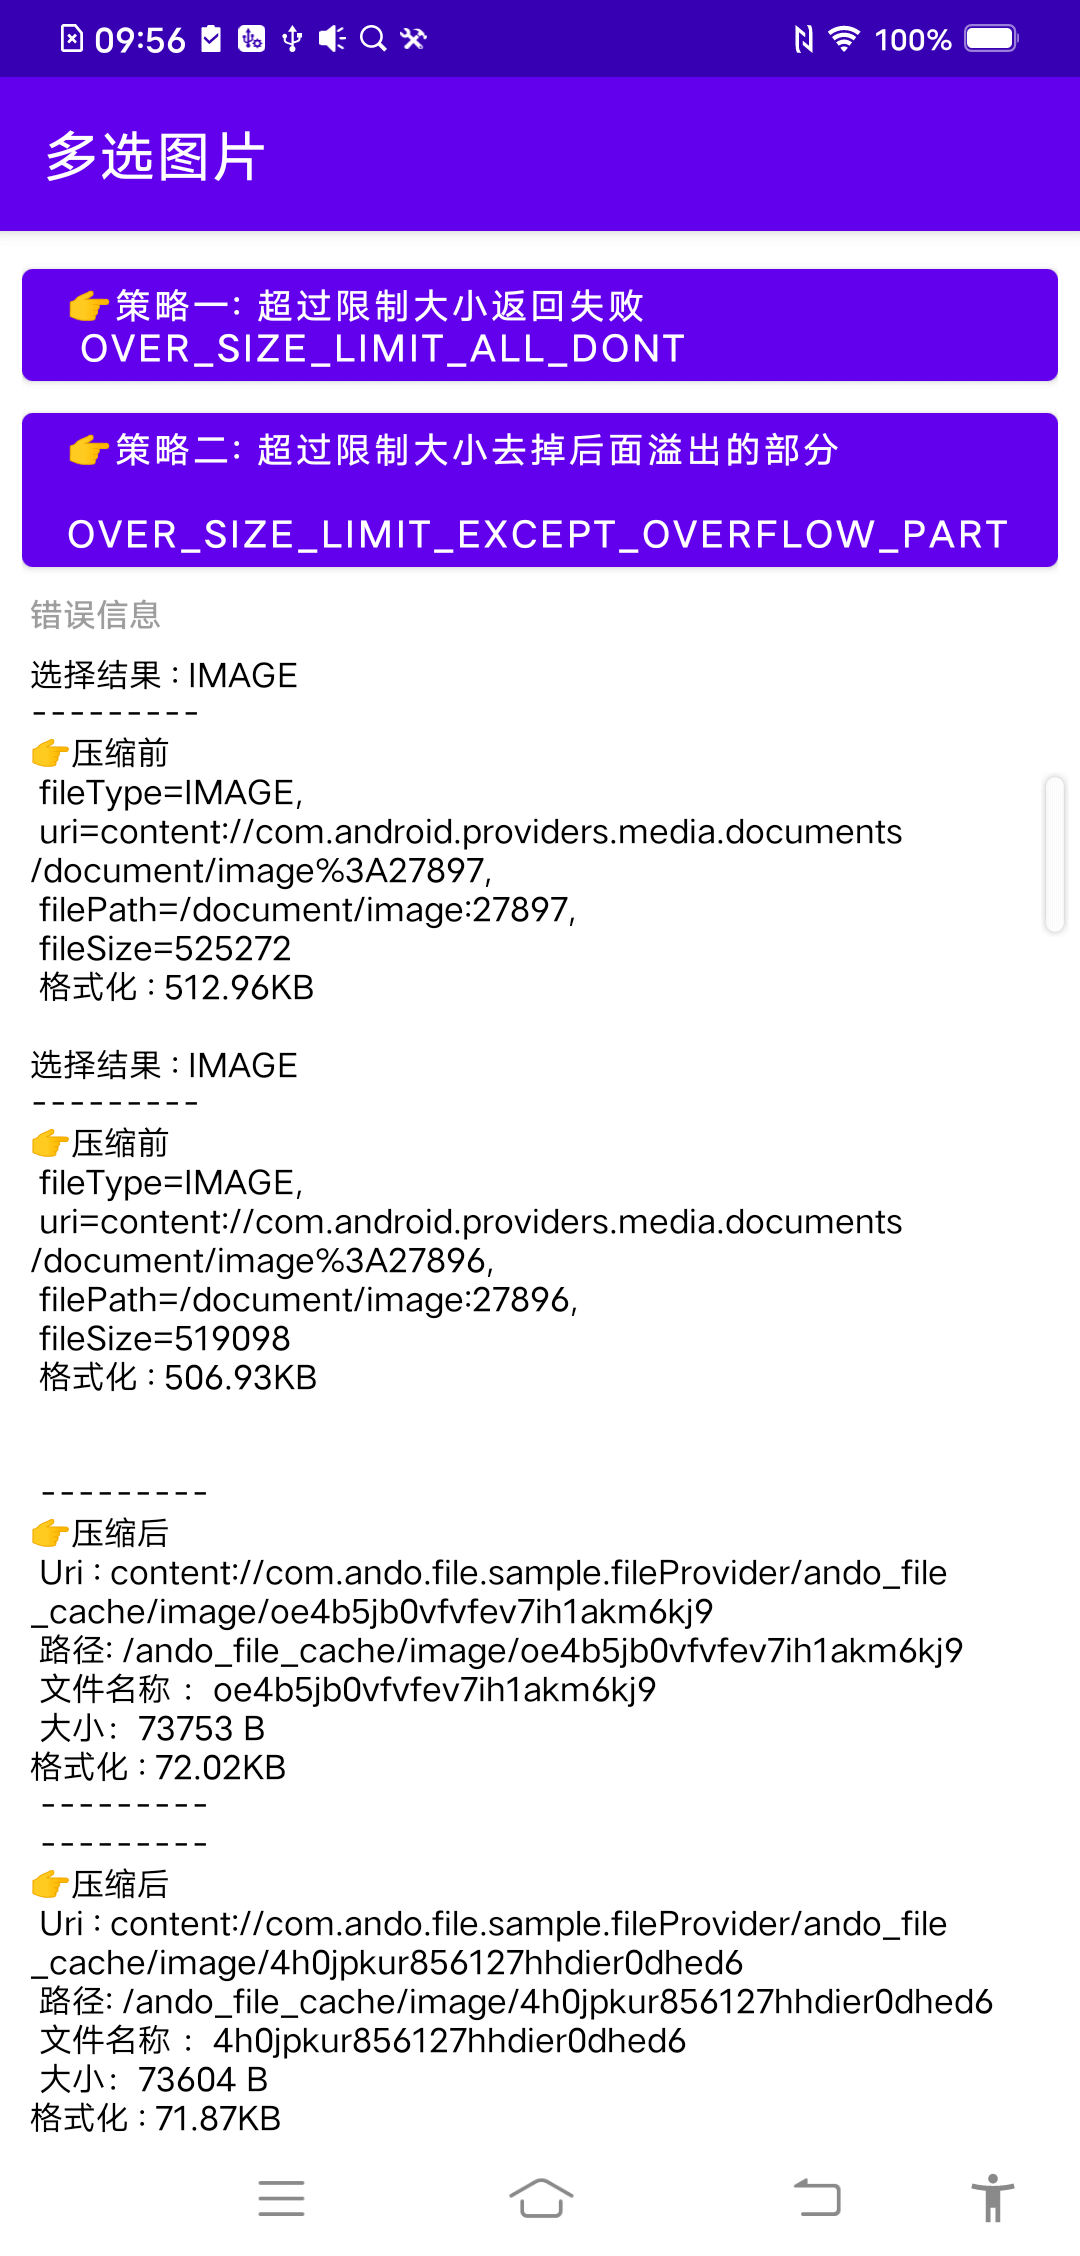
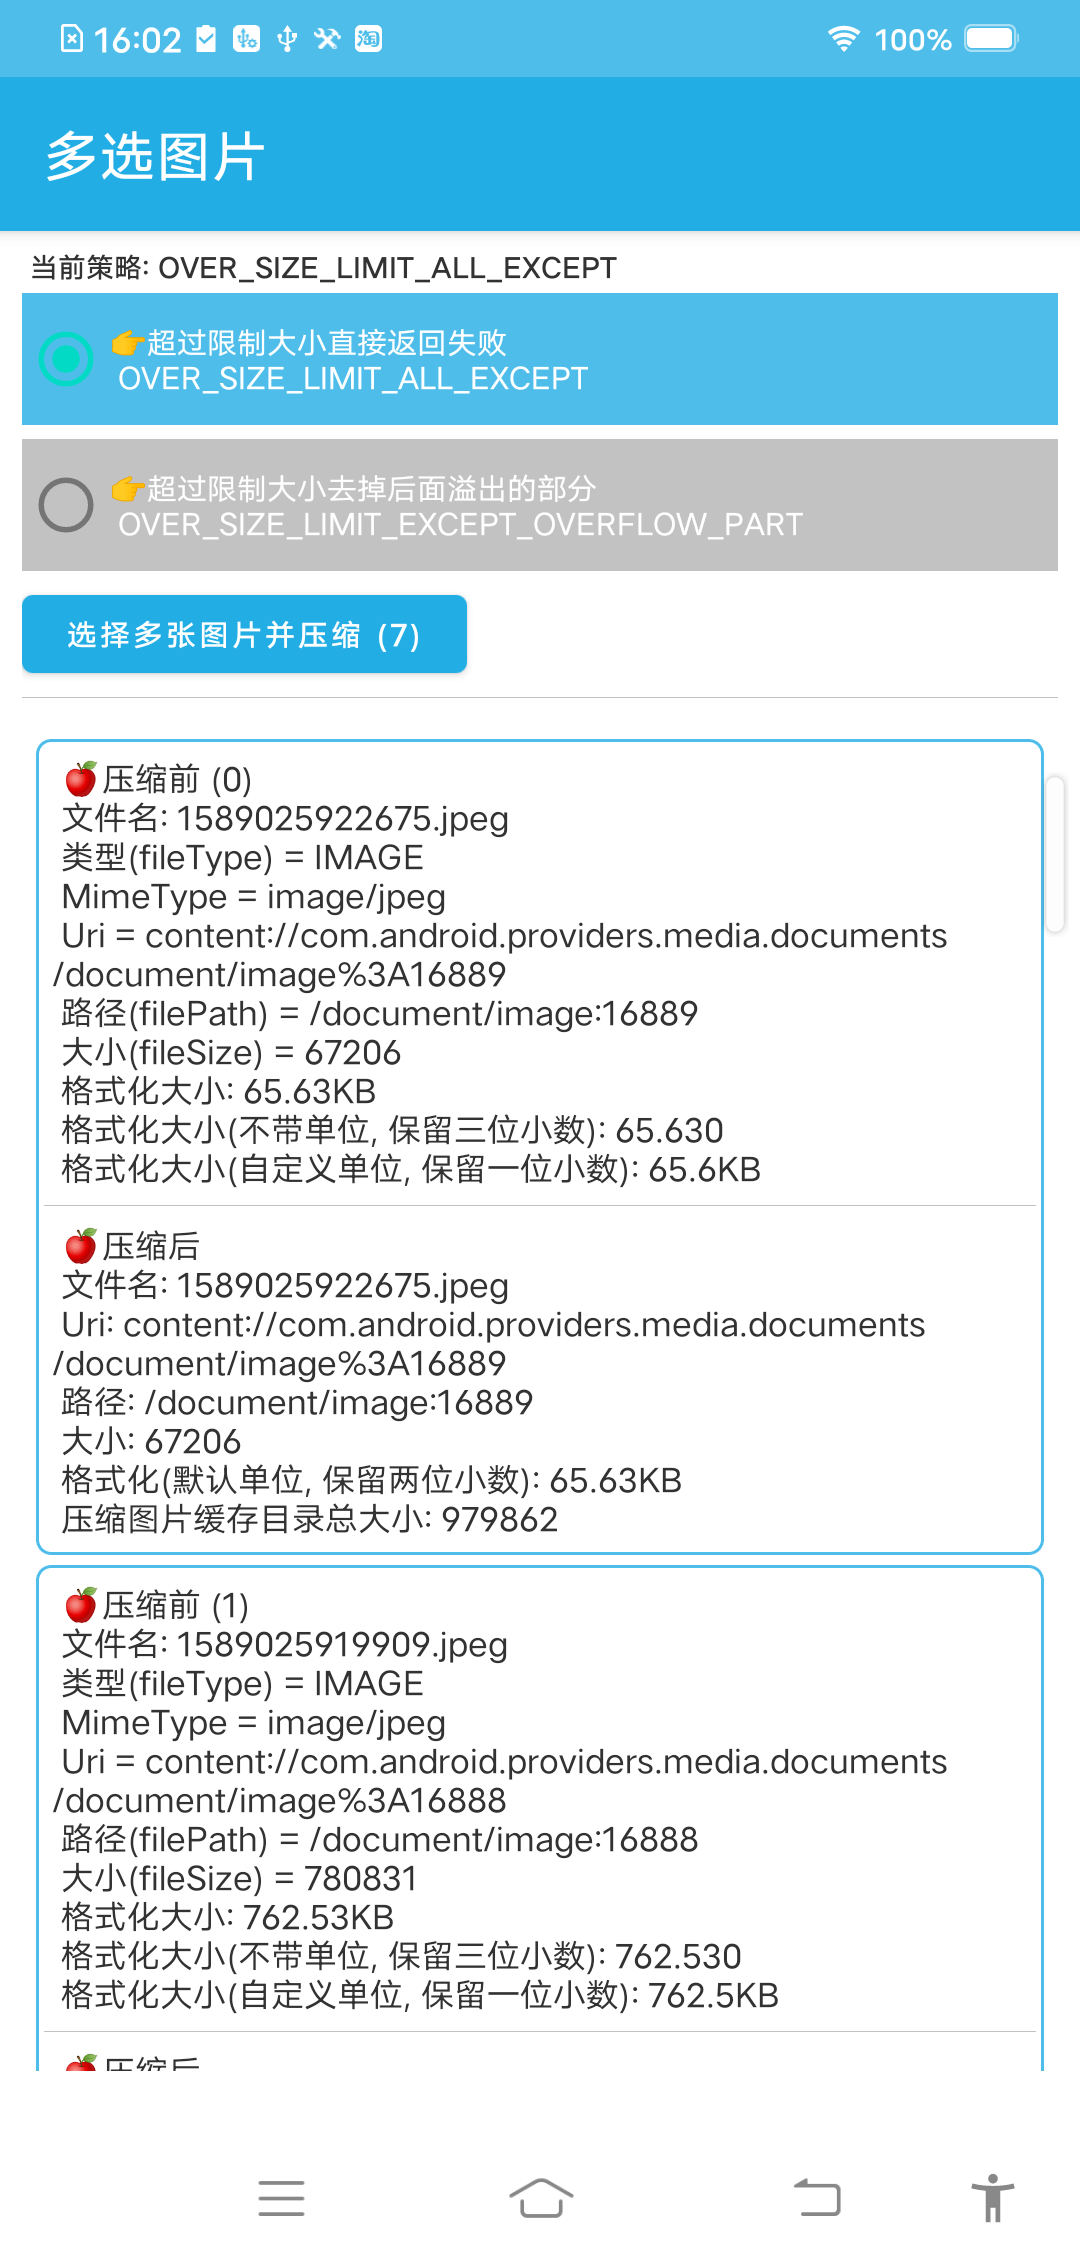
upload screenshot

diff --git a/app/src/main/java/com/ando/file/sample/ui/selector/FileSelectMultiFilesActivity.kt b/app/src/main/java/com/ando/file/sample/ui/selector/FileSelectMultiFilesActivity.kt
@@ -71,13 +71,14 @@ class FileSelectMultiFilesActivity : AppCompatActivity() {
             maxCount = 2
             minCountTip = "至少选择一张图片"
             maxCountTip = "最多选择两张图片"
-            singleFileMaxSize = 3145728
-            singleFileMaxSizeTip = "单张图片最大不超过3M！"
-            allFilesMaxSize = 5242880
-            allFilesMaxSizeTip = "图片总大小不超过5M！"
+            fileTypeMismatchTip = "文件类型不匹配"
+            singleFileMaxSize = 5242880
+            singleFileMaxSizeTip = "单张图片最大不超过5M！"
+            allFilesMaxSize = 10485760
+            allFilesMaxSizeTip = "图片总大小不超过10M！"
             fileCondition = object : FileSelectCondition {
                 override fun accept(fileType: FileType, uri: Uri?): Boolean {
-                    return (uri != null && !uri.path.isNullOrBlank() && !FileUtils.isGif(uri))
+                    return (fileType == FileType.IMAGE && uri != null && !uri.path.isNullOrBlank() && !FileUtils.isGif(uri))
                 }
             }
         }
@@ -85,7 +86,7 @@ class FileSelectMultiFilesActivity : AppCompatActivity() {
         //视频
         val optionsVideo = FileSelectOptions().apply {
             fileType = FileType.VIDEO
-            maxCount = 1
+            maxCount = 2
             minCountTip = "至少选择一个视频文件"
             maxCountTip = "最多选择一个视频文件"
             singleFileMaxSize = 20971520
@@ -108,14 +109,15 @@ class FileSelectMultiFilesActivity : AppCompatActivity() {
 
             // 优先使用自定义 FileSelectOptions 中设置的单文件大小限制,如果没有设置则采用该值
             .setSingleFileMaxSize(2097152, "单文件大小不能超过2M！")
+            // 总大小限制
             .setAllFilesMaxSize(52428800, "总文件大小不能超过50M！")
 
             // 超过限制大小两种返回策略: 1.OVER_SIZE_LIMIT_ALL_EXCEPT,超过限制大小全部不返回;2.OVER_SIZE_LIMIT_EXCEPT_OVERFLOW_PART,超过限制大小去掉后面相同类型文件
             .setOverSizeLimitStrategy(OVER_SIZE_LIMIT_EXCEPT_OVERFLOW_PART)
-            .setMimeTypes(null)//默认为 null,*/* 即不做文件类型限定;MIME_MEDIA 媒体文件,不同类型系统提供的选择UI不一样 eg:  arrayOf("video/*","audio/*","image/*")
+            .setMimeTypes(null)//同"*/*",默认不做文件类型约束,不同类型系统提供的选择UI不一样 eg: arrayOf("video/*","audio/*","image/*")
             .applyOptions(optionsImage, optionsVideo)
 
-            // 优先使用 FileSelectOptions 中设置的 FileSelectCondition,没有的情况下才使用通用的
+            // 优先使用 FileSelectOptions 中设置的 FileSelectCondition
             .filter(object : FileSelectCondition {
                 override fun accept(fileType: FileType, uri: Uri?): Boolean {
                     return when (fileType) {
@@ -146,7 +148,7 @@ class FileSelectMultiFilesActivity : AppCompatActivity() {
     private fun showSelectResult(results: List<FileSelectResult>) {
         mTvResult.text = ""
         results.forEach {
-            val info = "${it.toString()}格式化 : ${FileSizeUtils.formatFileSize(it.fileSize)}\n"
+            val info = "${it}格式化 : ${FileSizeUtils.formatFileSize(it.fileSize)}\n"
             FileLogger.w("FileOptions onSuccess  \n $info")
 
             mTvResult.text = mTvResult.text.toString().plus(

diff --git a/library_selector/src/main/java/ando/file/selector/FileSelectOptions.kt b/library_selector/src/main/java/ando/file/selector/FileSelectOptions.kt
@@ -10,7 +10,8 @@ import ando.file.core.FileType
  */
 class FileSelectOptions {
 
-    var maxCount: Int = Int.MAX_VALUE                  //可选文件最大数量
+    var minCount: Int = 0                              //选择文件最少数量
+    var maxCount: Int = Int.MAX_VALUE                  //选择文件最大数量
     var minCountTip: String? = ""
     var maxCountTip: String? = ""
 
